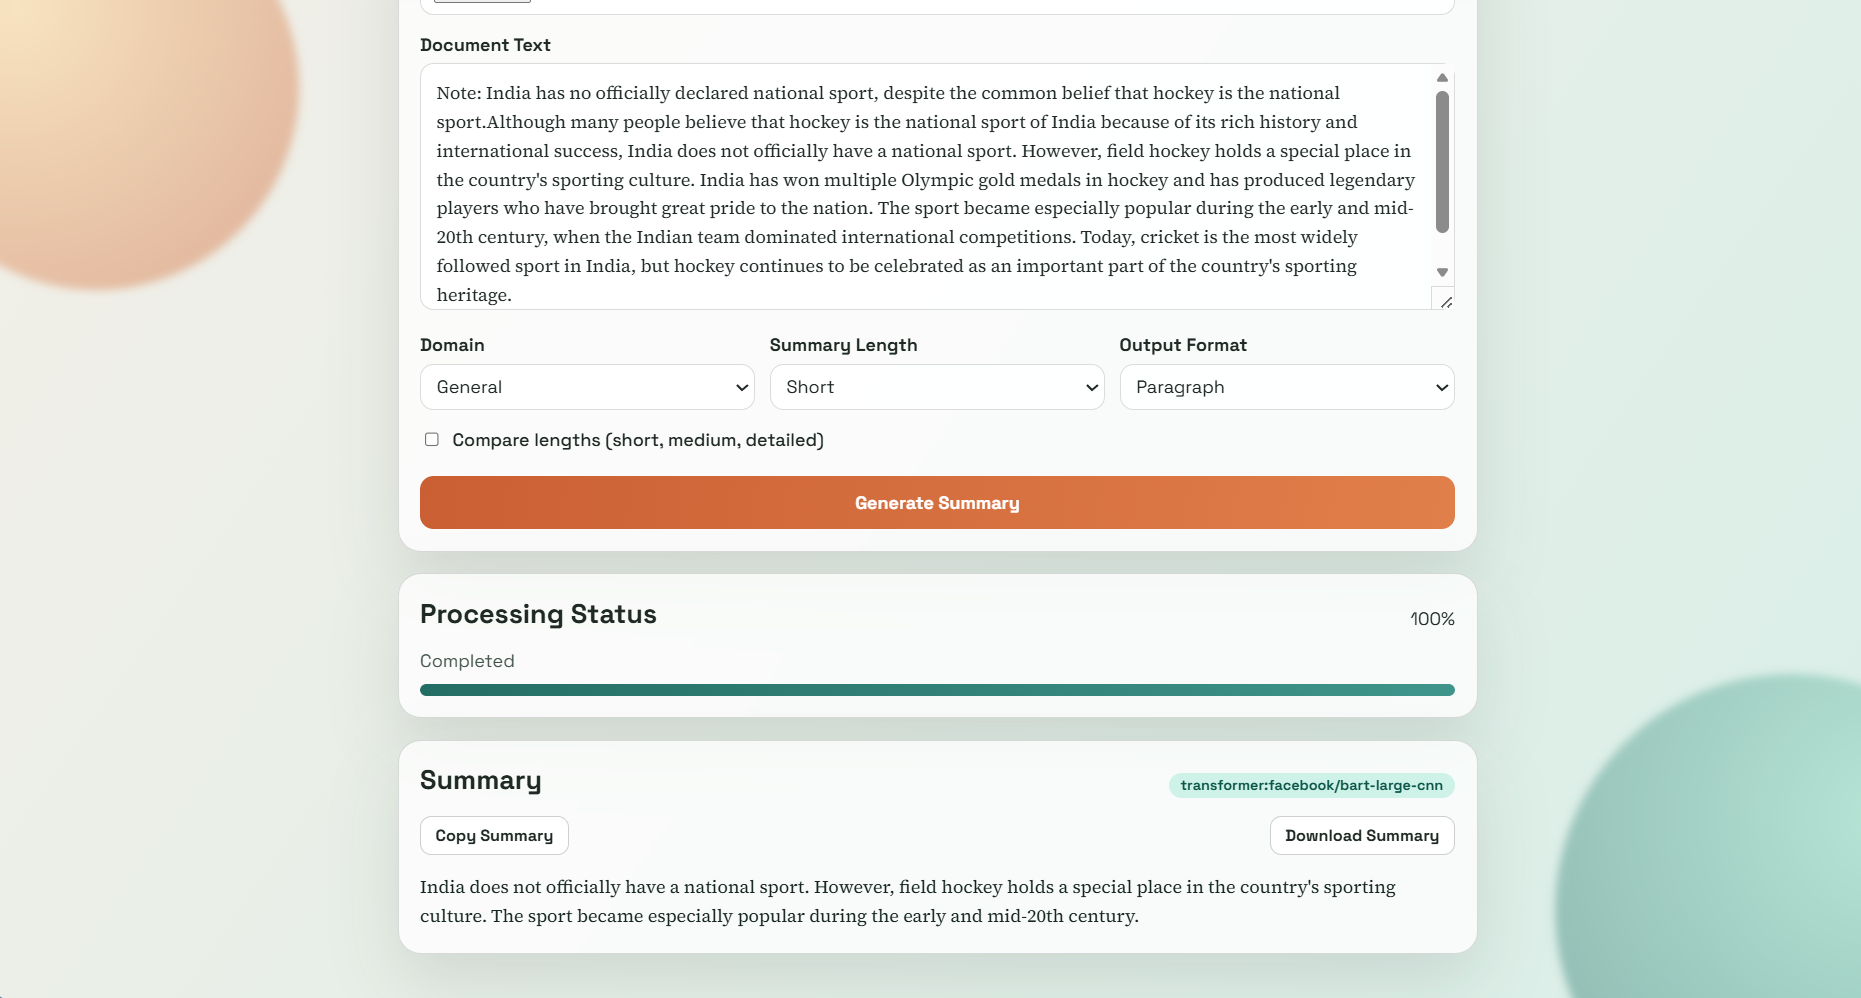
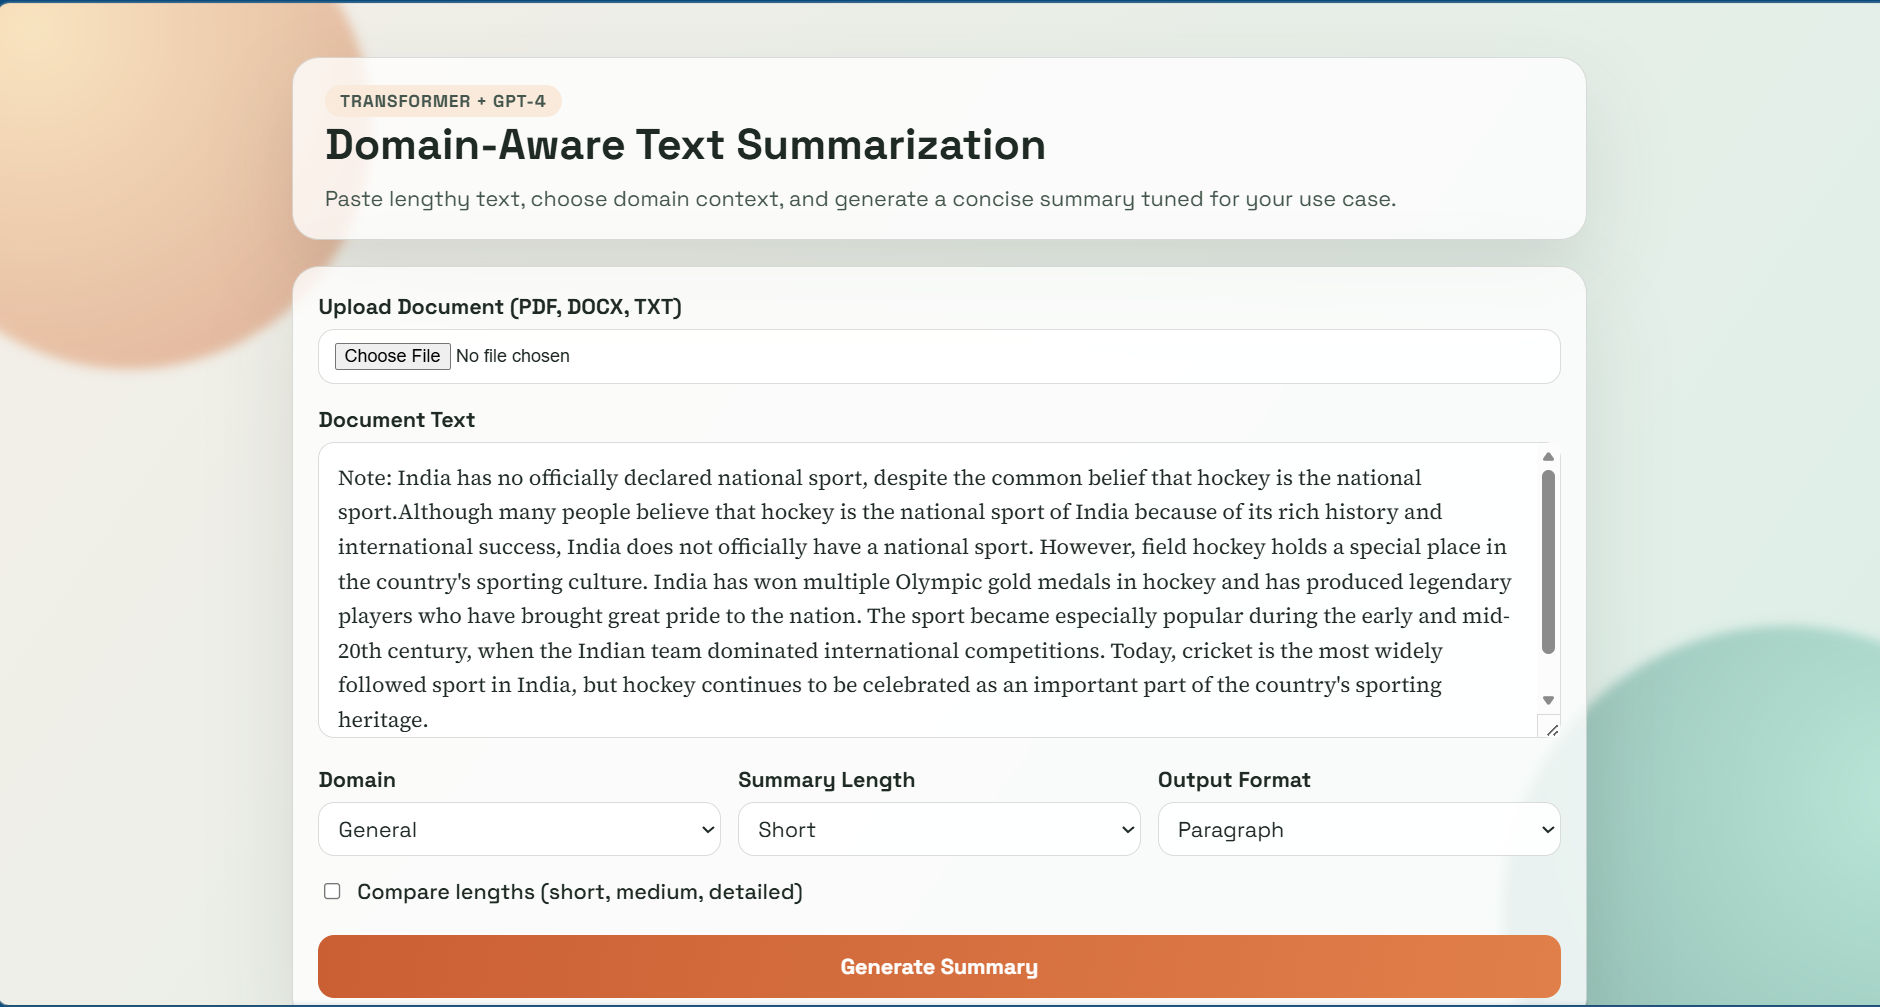
updated readme

diff --git a/README.md b/README.md
@@ -112,7 +112,8 @@ Response JSON:
 }
 ```
 
-## Screenshots
-![alt text](image.png)
+## Working Screenshots
 
 ![alt text](image-1.png)
+
+![alt text](image-2.png)